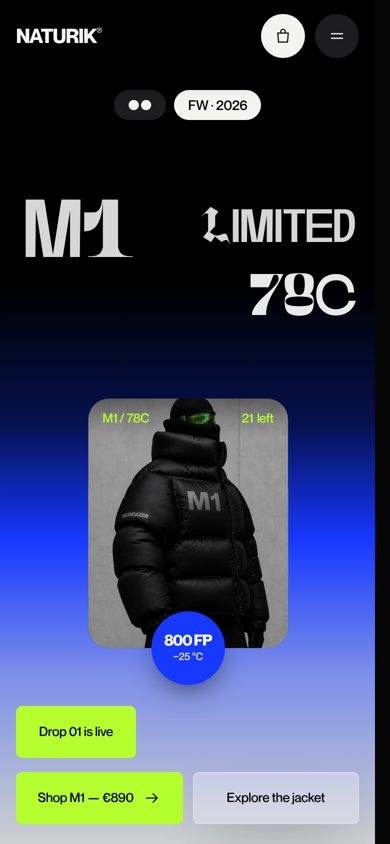
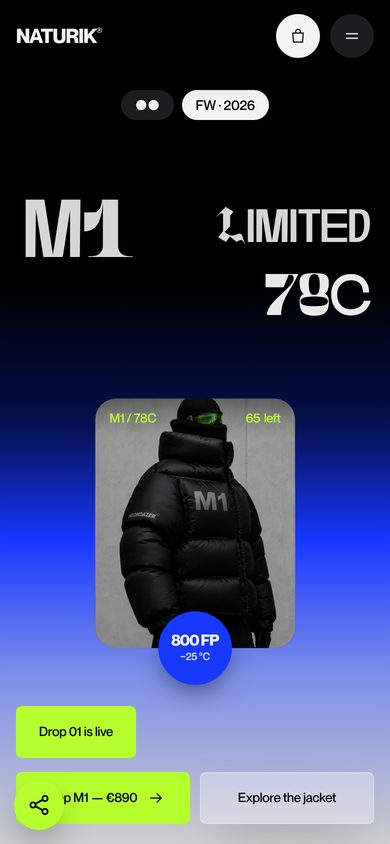
README: new screenshots of every section, 3D objects, mobile and full-height pages; Esc closes only the top layer
- Fresh desktop shots of all homepage sections, shop, product (gallery facts, size finder, size guide, bag) and contact
- Mobile strip and stitched full-height scroll-throughs of Home, Shop and Contact
- Esc in the size guide or bag no longer also closes the product page; mobile CTA reads M1 Puffer 77C

Claude-Session: https://claude.ai/code/session_01Tmbk2dd4R9AbAKMPzQgXd1

diff --git a/src/js/components/pdp.js b/src/js/components/pdp.js
@@ -29,7 +29,7 @@ function ensurePanel() {
   panel.className = 'pdp'; panel.setAttribute('data-lenis-prevent', '');   // wheel scrolls the panel, not the page behind it
   panel.setAttribute('role', 'dialog'); panel.setAttribute('aria-modal', 'true'); panel.setAttribute('aria-label', 'Product details');
   document.body.appendChild(panel);
-  document.addEventListener('keydown', (e) => { if (e.key === 'Escape' && panel.classList.contains('is-open') && !document.querySelector('.modal.is-open')) closeProduct(); });
+  document.addEventListener('keydown', (e) => { if (e.key === 'Escape' && !e.defaultPrevented && panel.classList.contains('is-open') && !document.querySelector('.modal.is-open')) closeProduct(); });
   return panel;
 }
 

diff --git a/index.html b/index.html
@@ -307,7 +307,7 @@
         <div><svg><use href="#i-repair"/></svg><h3>Lifetime repair</h3><p>Free for two years, at cost forever. Down jackets should last decades.</p></div>
       </div>
     </section>
-    <a class="m-cta" href="./shop.html?p=m1-obsidian" data-m-cta><span class="m-cta__txt"><b>M1 Puffer 78C</b><span><span data-m1-left>21</span> left · €890</span></span><span class="m-cta__btn">Shop</span></a>
+    <a class="m-cta" href="./shop.html?p=m1-obsidian" data-m-cta><span class="m-cta__txt"><b>M1 Puffer 77C</b><span><span data-m1-left>21</span> left · €890</span></span><span class="m-cta__btn">Shop</span></a>
   </main>
 
   <!-- @include footer {"page":"home"} -->

diff --git a/src/js/components/cartDrawer.js b/src/js/components/cartDrawer.js
@@ -28,7 +28,7 @@ export function initCart() {
     if (e.target.closest('[data-cart-open]')) { e.preventDefault(); open(); }
     if (e.target.closest('[data-cart-close]') || e.target === overlay) close();
   });
-  document.addEventListener('keydown', (e) => { if (e.key === 'Escape' && drawer.classList.contains('is-open')) close(); });
+  document.addEventListener('keydown', (e) => { if (e.key === 'Escape' && !e.defaultPrevented && drawer.classList.contains('is-open')) { e.preventDefault(); close(); } });
 
   body.addEventListener('click', (e) => {
     const li = e.target.closest('[data-key]'); if (!li) return;

diff --git a/src/js/components/modal.js b/src/js/components/modal.js
@@ -25,6 +25,6 @@ export function initModals() {
     const c = e.target.closest('[data-modal-close]');
     if (c) closeModal(c.closest('[data-modal]'));
   });
-  document.addEventListener('keydown', (e) => { if (e.key === 'Escape' && stack.length) closeModal(); });
+  document.addEventListener('keydown', (e) => { if (e.key === 'Escape' && stack.length) { e.preventDefault(); closeModal(); } });   // handled: Esc closes only the top layer
 }
 export const modalOpen = () => stack.length > 0;

diff --git a/README.md b/README.md
@@ -1,79 +1,142 @@
+<div align="center">
+
 # NATURIK — Drop 01
 
-A one-product drop store for the **M1 Puffer 78C**: 78 hand-filled cells, numbered pieces, never restocked.
-Built as a fast, animated single-page experience with a full (simulated) shop and checkout.
+**One down jacket. Two colours. 500 numbered pieces. Never restocked.**
 
-**▶ Live site: https://denysovski.github.io/NATURIK/**
+A drop store for the M1 Puffer: scroll-driven storytelling, live 3D objects and a complete (simulated) shop with checkout. No framework, no page reloads.
+
+[**▶ Open the live site**](https://denysovski.github.io/NATURIK/) &nbsp;·&nbsp; [Shop](https://denysovski.github.io/NATURIK/shop.html) &nbsp;·&nbsp; [Product](https://denysovski.github.io/NATURIK/shop.html?p=m1-obsidian) &nbsp;·&nbsp; [Contact](https://denysovski.github.io/NATURIK/contact.html)
+
+![Vite](https://img.shields.io/badge/Vite-646CFF?logo=vite&logoColor=white)
+![GSAP](https://img.shields.io/badge/GSAP%20%2B%20ScrollTrigger-0AE448?logo=greensock&logoColor=black)
+![three.js](https://img.shields.io/badge/three.js-000000?logo=threedotjs&logoColor=white)
+![Lenis](https://img.shields.io/badge/Lenis-smooth%20scroll-b6ff2e)
+![No framework](https://img.shields.io/badge/framework-none-1638ff)
+
+<br>
 
 ![Landing page](docs/screens/01-hero.jpg)
 
+</div>
+
 ---
 
-## What's inside
+## At a glance
 
 | | |
 |---|---|
-| **Pages** | Home, Shop (with product detail), Contact, Privacy & cookies, Terms of sale, 404 — switched without reloads |
-| **Shop** | Filters, sorting, 2/3-column view, product gallery, size finder, waitlist for sold-out sizes |
-| **Cart & checkout** | Slide-in bag, discount codes, 4-step checkout with card validation (demo only, no payments) |
-| **Motion** | Scroll-driven photo stage, zoom-in sections, page transitions with a tracker/terminal overlay, counters, glitch effects |
-| **Extras** | First-visit 10% popup with newsletter sign-up, live "people looking now" line, floating social button |
-| **3D** | A green blob and three small glossy objects, rendered with three.js only when on screen |
-| **SEO** | Meta + Open Graph, JSON-LD (Product, ItemList, FAQ, Organization), sitemap, robots, 404 |
-| **Analytics** | Consent-gated hook (Plausible) — off until a domain is set in `src/js/core/analytics.js` |
+| 🧥 **The drop** | M1 Puffer **77C** (Obsidian) and **78C** (Arctic), 250 of each. One stock source drives every counter: the nav chip, the hero, Live count, the shop and each product (**106 left: 65 black, 41 white**). |
+| 🗺 **Pages** | Home, Shop with product pages, Contact, Privacy, Terms and 404. Pages switch without reloads, with a tracker/terminal transition. |
+| 🛍 **Shop** | Colour filter, sorting, full-photo gallery with a fact on every photo, a 20-second size finder, a size guide, a waitlist for sold-out sizes and a sliding Obsidian ↔ Arctic switch. |
+| 💳 **Bag & checkout** | Slide-in bag, free-shipping meter, discount codes, 4-step checkout with card validation (demo only, nothing is charged). |
+| ✨ **Motion** | Pinned zoom sections, a scroll-scrubbed photo stage, slot-machine counters, a live clock, glitch partners grid and smooth Lenis scrolling. |
+| 🧊 **3D** | A WebGL blob, glossy objects (bike wheel + thermometer, camera, star), a megaphone and a tilted question mark. All three.js, loaded lazily and drawn only while on screen. |
+| 🔎 **SEO** | Meta and Open Graph, JSON-LD (Product, ItemList, FAQ, Organization), sitemap, robots, 404. |
 
-## Tour of the homepage
+---
 
-| | |
-|---|---|
-| ![Warmth](docs/screens/02-warmth.jpg) **Portable summer** — the photo card travels with the story, specs count up as they scroll in. | ![Our partners](docs/screens/03b-our-partners.jpg) **Our partners** — the section zooms in to fill the screen before the grid closes. |
-| ![Partners](docs/screens/03-partners.jpg) **Partners grid** — 7×2, one partner per column, info cards and connected tracker cells. Open a partner for details. | ![Live count](docs/screens/04-live-count.jpg) **Live count** — who's looking right now, stock per size, add straight to the bag. |
-| ![Signal](docs/screens/05-signal.jpg) **Signal** — flashing phrases, each one a link to a part of the site. | ![Promo](docs/screens/15-promo.jpg) **First visit** — leave an email, get the 10% code instantly. |
-| ![Who we are](docs/screens/06-who-we-are.jpg) **Who we are** — a soft 3D blob that swells on hover. | ![Closer](docs/screens/07-closer.jpg) **Closer** — pinned zoom into six details, with a green crosshair and a clickable index. |
-| ![Who it's for](docs/screens/08-who-its-for.jpg) **Who it's for** — one 3D object per type of wearer. | ![Lookbook](docs/screens/09-lookbook.jpg) **Lookbook** — horizontal scroll, mixed frame sizes, drifting light. |
-| ![Drop row](docs/screens/10-drop-row.jpg) **Drop 01 — six pieces** — Obsidian on top, Arctic below, photo swap on hover. | ![Contact](docs/screens/13-contact.jpg) **Contact** — form, studio details, socials. |
+## Home
 
-## Floating social menu
-
-![Social menu](docs/screens/14-social.jpg)
-
-## Shop
+The homepage tells the story of the jacket from top to bottom. Each section has its own scroll choreography.
 
 | | |
 |---|---|
-| ![Shop](docs/screens/11-shop.jpg) | ![Product](docs/screens/12-product.jpg) |
+| ![Hero](docs/screens/01-hero.jpg) **Hero.** The giant M1 Puffer wordmark around one glass photo card, plus *Remaining 106/500* counting up on load. | ![Portable summer](docs/screens/02-warmth.jpg) **Portable summer.** The photo card travels with the scroll and the specs count up as they enter. |
+| ![Our partners](docs/screens/03-partners-intro.jpg) **Our partners.** The section zooms in to fill the screen, then both halves of the grid slide shut over the title. | ![Partners grid](docs/screens/04-partners.jpg) **Partners grid.** A 7 × 2 grid of partners, facts and glitching tracker cells joined by dashed lines. |
+| ![Partner card](docs/screens/05-partner-card.jpg) **Partner card.** *Open +* shows a sharp, centred card with a *Since* pill and a link. | ![Live count](docs/screens/06-live-count.jpg) **Live count.** Who is looking right now, stock per size across the whole drop, and the giant *106 left of 500*. |
+| ![Signal](docs/screens/07-signal.jpg) **Signal.** Flashing phrases with tracker boxes. Every phrase links somewhere on the site. | ![Who we are](docs/screens/08-who-we-are.jpg) **Who we are.** A soft WebGL blob next to the manifesto, plus *Follow the studio* links. |
+| ![Closer](docs/screens/09-closer.jpg) **Closer.** A pinned, full-bleed zoom through six details with a crosshair and a clickable index. | ![Who it's for](docs/screens/10-who-its-for.jpg) **Who it's for.** One glossy 3D object per type of wearer: a bike wheel with a thermometer, a studio camera and a star. |
+| ![Lookbook](docs/screens/11-lookbook.jpg) **Lookbook.** Horizontal scroll through mixed frame sizes and notes. | ![Who showed up](docs/screens/12-clock.jpg) **Who showed up.** A real-time clock with a sweeping second hand. Each hour mark shows visitors in that hour, and the numbers roll like a slot machine. |
+
+![Drop 01 — two pieces](docs/screens/13-drop-row.jpg)
+**Drop 01 — two pieces.** Obsidian left, Arctic right, with pieces left in green and a photo swap on hover.
+
+---
+
+## Shop & product
+
+| | |
+|---|---|
+| ![Shop](docs/screens/20-shop.jpg) **The Drop.** *106 pieces left*, one jacket in two colours. | ![Shop grid](docs/screens/21-shop-grid.jpg) **Grid.** Colour filter, sorting and two big cards. |
+| ![Opening an item](docs/screens/22-opening.jpg) **Opening an item.** The card blurs under a spinner until the product page is ready. | ![Product](docs/screens/23-product.jpg) **Product page.** The gallery stays fixed while the right column scrolls. Every photo carries a small fact, shuffled differently per colour. |
+| ![Size finder](docs/screens/24-size-finder.jpg) **Find my size.** Height and chest (digits only, custom steppers) give a recommendation in cobalt. | ![Size guide](docs/screens/25-size-guide.jpg) **Size guide.** Body and garment measurements, sharp from the first frame. |
+
+![Bag](docs/screens/26-bag.jpg)
+**Bag.** Slide-in drawer with a free-shipping meter, quantity steppers and the checkout button.
+
+---
+
+## Contact
+
+| | |
+|---|---|
+| ![Talk to us](docs/screens/30-contact.jpg) **Talk to us.** A big green and blue 3D megaphone, the average reply time and the opening hours. | ![Hours](docs/screens/34-hours.jpg) **Hours bubble.** Hover the hours for the week, with the weekend *Off* in green. |
+| ![What do you need?](docs/screens/31b-onboarding-hover.jpg) **What do you need?** A two-step onboarding: pick one of five topics instead of facing one long form. | ![Sizing form](docs/screens/32-sizing-form.jpg) **Topic form.** Each topic asks only for what it needs, e.g. height and usual size for sizing help. |
+
+![Before you ask](docs/screens/33-faq.jpg)
+**Before you ask.** The FAQ, with a tilted, glossy 3D question mark.
+
+---
 
 ## Mobile
 
-<p>
-  <img src="docs/screens/m-hero.jpg" width="240" alt="Mobile landing">
-  <img src="docs/screens/m-live-count.jpg" width="240" alt="Mobile live count">
-  <img src="docs/screens/m-drop-row.jpg" width="240" alt="Mobile product row">
+<p align="center">
+  <img src="docs/screens/m-hero.jpg" width="190" alt="Mobile hero">
+  <img src="docs/screens/m-live-count.jpg" width="190" alt="Mobile live count">
+  <img src="docs/screens/m-who.jpg" width="190" alt="Mobile 3D cards">
+  <img src="docs/screens/m-clock.jpg" width="190" alt="Mobile clock">
+  <img src="docs/screens/m-product.jpg" width="190" alt="Mobile product">
+  <img src="docs/screens/m-contact.jpg" width="190" alt="Mobile contact">
 </p>
+
+---
+
+## Full pages
+
+Scroll-throughs of each page at full height, captured screen by screen as the animations play.
+
+<details>
+<summary><b>Home</b>: the whole story, top to bottom</summary>
+<br>
+<img src="docs/screens/full-home.jpg" width="720" alt="Full homepage">
+</details>
+
+<details>
+<summary><b>Shop</b></summary>
+<br>
+<img src="docs/screens/full-shop.jpg" width="720" alt="Full shop page">
+</details>
+
+<details>
+<summary><b>Contact</b></summary>
+<br>
+<img src="docs/screens/full-contact.jpg" width="720" alt="Full contact page">
+</details>
 
 ---
 
 ## Try the demo checkout
 
-- Card number **4242 4242 4242 4242**, any future date, any CVC
-- Discount codes **DROP01** (−10 %) and **CELL78** (−7.8 %)
-- Nothing is charged and no order is sent — the bag lives in your browser
-- The "people looking right now" numbers are simulated for the demo
+- Card **4242 4242 4242 4242**, any future date, any CVC
+- Codes **DROP01** (−10 %) and **CELL78** (−7.8 %)
+- Nothing is charged and no order is sent. The bag lives in your browser.
+- *People looking now* and the visitor clock use sample figures. `src/js/components/clock.js` has a `STATS_URL` hook for real analytics.
 
-## Tech
+## Under the hood
 
-- **Vite** — multi-page build, small custom plugin for HTML partials and build-time product rendering
-- **GSAP + ScrollTrigger** and **Lenis** — all scroll animation and smooth scrolling
-- **three.js** — loaded lazily, only for the 3D pieces
-- Plain HTML, CSS and JavaScript — no framework
-- Fonts: Neue Montreal, Dirtyline and Canobis (self-hosted)
+- **Vite** multi-page build, with a small plugin for HTML partials and build-time product rendering
+- **GSAP + ScrollTrigger** for every scroll animation, and **Lenis** for smooth scrolling
+- **three.js**, lazily imported. Each 3D object compiles in idle time and renders only while visible. The blob adapts its resolution to the device.
+- A custom SPA router, so pages swap without reloads, with history and focus handling
+- Plain HTML, CSS and JavaScript. Fonts: Neue Montreal, Dirtyline and Canobis.
 
 ```
 index.html · shop.html · contact.html   pages
-partials/                               header, footer, overlays
+partials/                               header, footer, overlays (bag, modals, social button)
 src/js/core/                            app shell, router, scroll
-src/js/components/                      cart, checkout, product page, 3D, effects …
-src/js/data/products.js                 the six pieces of Drop 01
+src/js/components/                      product page, bag, checkout, clock, partners, 3D (blob, who3d, contact3d) …
+src/js/data/products.js                 the two colourways, stock and editions
 src/styles/                             tokens, components, pages
 public/                                 images, fonts, icons, SEO files
 ```
@@ -82,7 +145,7 @@ public/                                 images, fonts, icons, SEO files
 
 ```bash
 npm install
-npm run dev       # local dev server
+npm run dev       # dev server
 npm run build     # production build into dist/
 npm run preview   # serve the build
 ```
@@ -91,4 +154,4 @@ Pushing to `main` builds and deploys to GitHub Pages automatically.
 
 ---
 
-<sub>Demo store. Product names, partners and figures are for illustration only.</sub>
+<div align="center"><sub>Demo store. Product names, partners and figures are for illustration only.</sub></div>
